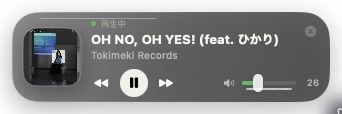
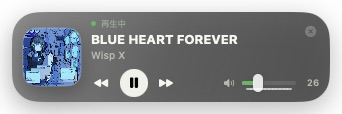
Remove misleading glass highlight lines

diff --git a/Sources/SpotifyControl/OverlayView.swift b/Sources/SpotifyControl/OverlayView.swift
@@ -313,31 +313,6 @@ private struct PanelBackground: View {
                 )
                 .blendMode(.screen)
 
-            RoundedRectangle(cornerRadius: OverlayLayout.cornerRadius, style: .continuous)
-                .stroke(
-                    LinearGradient(
-                        colors: [
-                            .white.opacity(0.50),
-                            .white.opacity(0.12),
-                            .black.opacity(0.10)
-                        ],
-                        startPoint: .topLeading,
-                        endPoint: .bottomTrailing
-                    ),
-                    lineWidth: 1
-                )
-
-            VStack {
-                HStack {
-                    Capsule()
-                        .fill(Color.white.opacity(0.34))
-                        .frame(width: 116, height: 1)
-                        .offset(x: 28, y: 6)
-                    Spacer()
-                }
-                Spacer()
-            }
-
         }
         .frame(width: OverlayLayout.width, height: OverlayLayout.height)
         .clipShape(RoundedRectangle(cornerRadius: OverlayLayout.cornerRadius, style: .continuous))

diff --git a/CHANGELOG.md b/CHANGELOG.md
@@ -17,6 +17,7 @@ All notable changes to SpotifyControl are documented here.
 ### Fixed
 
 - Removed the rectangular `NSPanel` shadow visible around rounded corners
+- Removed decorative highlight lines that could be mistaken for progress controls
 - Propagated playback and volume command failures instead of silently ignoring them
 - Launching Spotify from Play now resumes playback after launch
 - Prevented older overlapping refreshes from replacing newer UI state
